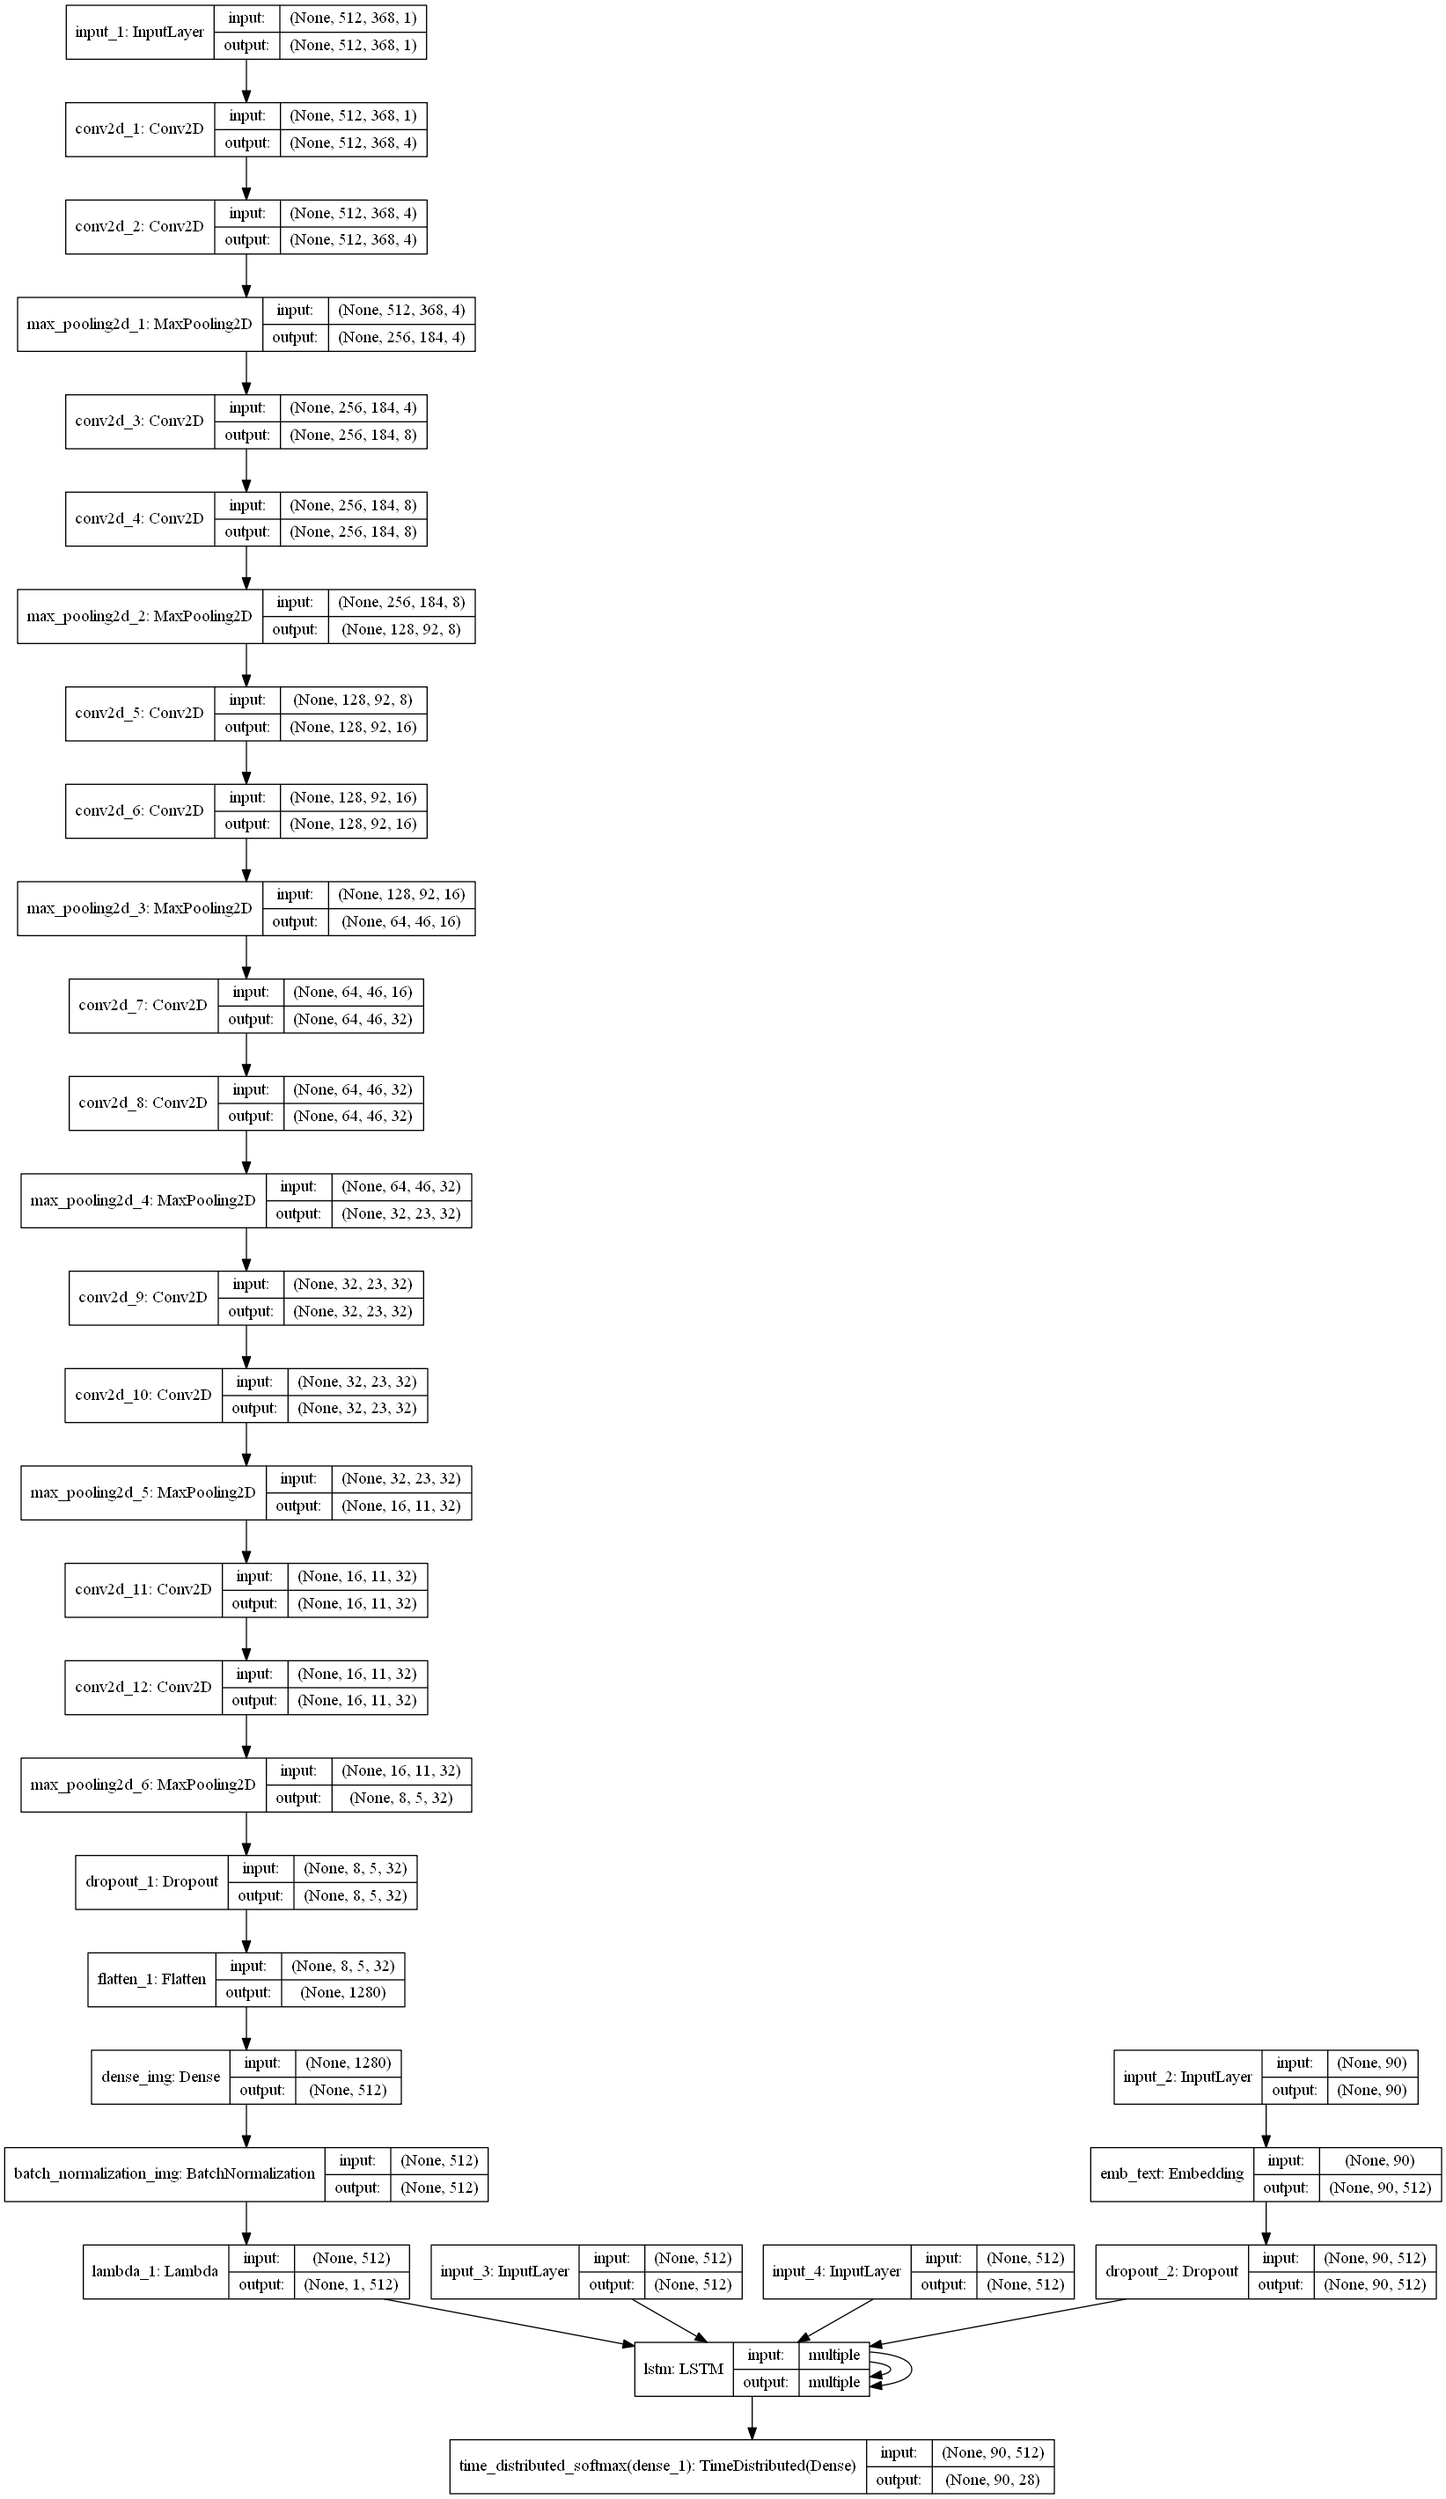
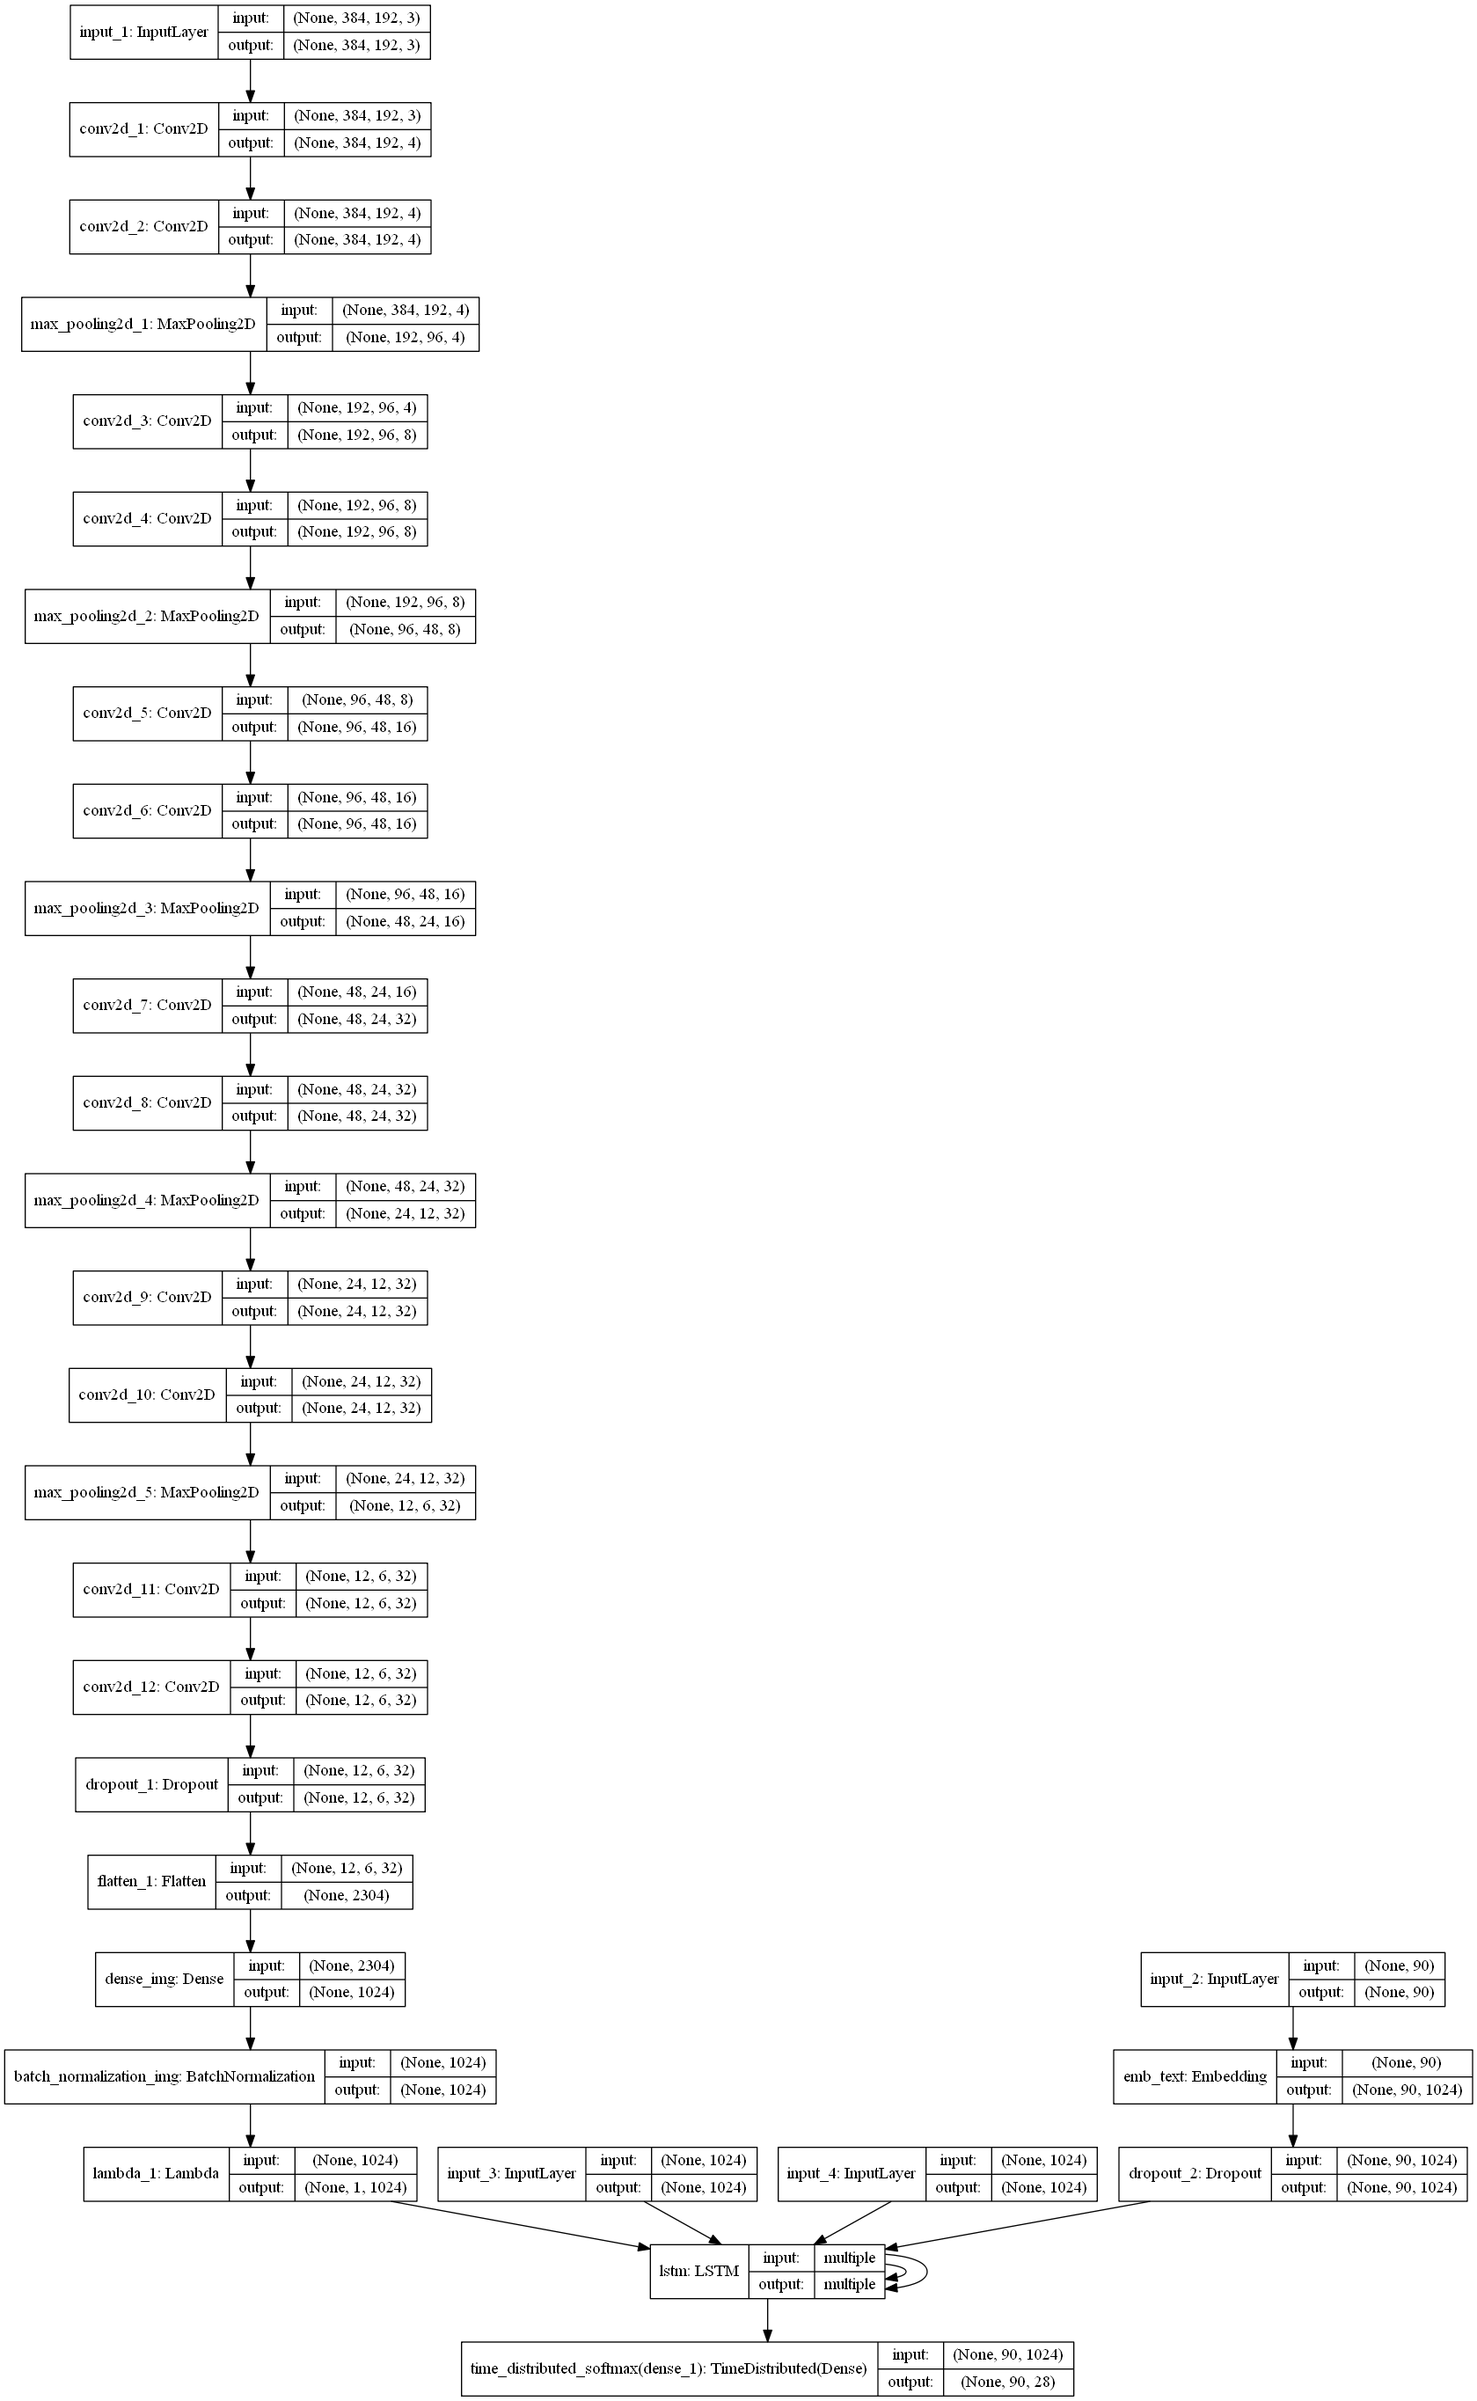
train

Changed region(s): [[0.0, 0.0, 0.9933, 1.0]]

diff --git a/NIC.py b/NIC.py
@@ -22,12 +22,13 @@ from keras.layers import (LSTM, BatchNormalization, Dense, Dropout, Embedding,
                           Input, Lambda, TimeDistributed, Conv2D, MaxPooling2D, Flatten)
 from keras.models import Model
 
-unit_size = 512
+unit_size = 1024
+
 
 def model(vocab_size, max_len, reg):
-    resizeDim = (368, 512)
+    resizeDim = (192, 384)
 
-    inputs1 = Input(shape=(resizeDim[1], resizeDim[0], 1))
+    inputs1 = Input(shape=(resizeDim[1], resizeDim[0], 3))
 
     encoder = Conv2D(4, (3, 3), activation='relu', padding='same')(inputs1)
     encoder = Conv2D(4, (3, 3), activation='relu', padding='same')(encoder)
@@ -51,52 +52,53 @@ def model(vocab_size, max_len, reg):
 
     encoder = Conv2D(32, (3, 3), activation='relu', padding='same')(encoder)
     encoder = Conv2D(32, (3, 3), activation='relu', padding='same')(encoder)
-    encoder = MaxPooling2D((2, 2))(encoder)
+    X_img = MaxPooling2D((2, 2))(encoder)
     # Image embedding
-    #inputs1 = Input(shape=(94208,))
-    X_img = Dropout(0.7)(encoder)
+    # inputs1 = Input(shape=(94208,))
+    X_img = Dropout(0.1)(encoder)
     X_img = Flatten()(X_img)
-    X_img = Dense(unit_size, use_bias = False, 
-                        kernel_regularizer=regularizers.l2(reg),
-                        name = 'dense_img')(X_img)
+    X_img = Dense(unit_size, use_bias=False,
+                  kernel_regularizer=regularizers.l2(reg),
+                  name='dense_img')(X_img)
     X_img = BatchNormalization(name='batch_normalization_img')(X_img)
-    X_img = Lambda(lambda x : K.expand_dims(x, axis=1))(X_img)
+    X_img = Lambda(lambda x: K.expand_dims(x, axis=1))(X_img)
+    Model(inputs1, X_img).summary()
 
     # Text embedding
     inputs2 = Input(shape=(max_len,))
-    X_text = Embedding(vocab_size, unit_size, mask_zero = True, name = 'emb_text')(inputs2)
-    X_text = Dropout(0.5)(X_text)
+    X_text = Embedding(vocab_size, unit_size, mask_zero=True, name='emb_text')(inputs2)
+    X_text = Dropout(0.1)(X_text)
+    Model(inputs2, X_text).summary()
 
     # Initial States
     a0 = Input(shape=(unit_size,))
     c0 = Input(shape=(unit_size,))
 
-    LSTMLayer = LSTM(unit_size, return_sequences = True, return_state = True, dropout=0.5, name = 'lstm')
+    LSTMLayer = LSTM(unit_size, return_sequences=True, return_state=True, dropout=0.1, name='lstm')
 
     # Take image embedding as the first input to LSTM
     _, a, c = LSTMLayer(X_img, initial_state=[a0, c0])
 
     A, _, _ = LSTMLayer(X_text, initial_state=[a, c])
     output = TimeDistributed(Dense(vocab_size, activation='softmax',
-                                     kernel_regularizer = regularizers.l2(reg), 
-                                     bias_regularizer = regularizers.l2(reg)), name = 'time_distributed_softmax')(A)
+                                   kernel_regularizer=regularizers.l2(reg),
+                                   bias_regularizer=regularizers.l2(reg)), name='time_distributed_softmax')(A)
 
     return Model(inputs=[inputs1, inputs2, a0, c0], outputs=output, name='NIC')
 
 
 def greedy_inference_model(vocab_size, max_len):
-    
-    EncoderDense = Dense(unit_size, use_bias=False, name = 'dense_img')
-    EmbeddingLayer = Embedding(vocab_size, unit_size, mask_zero = True, name = 'emb_text')
-    LSTMLayer = LSTM(unit_size, return_state = True, name = 'lstm')
-    SoftmaxLayer = Dense(vocab_size, activation='softmax', name = 'time_distributed_softmax')
+    EncoderDense = Dense(unit_size, use_bias=False, name='dense_img')
+    EmbeddingLayer = Embedding(vocab_size, unit_size, mask_zero=True, name='emb_text')
+    LSTMLayer = LSTM(unit_size, return_state=True, name='lstm')
+    SoftmaxLayer = Dense(vocab_size, activation='softmax', name='time_distributed_softmax')
     BatchNormLayer = BatchNormalization(name='batch_normalization_img')
 
     # Image embedding
     inputs1 = Input(shape=(94208,))
     X_img = EncoderDense(inputs1)
     X_img = BatchNormLayer(X_img)
-    X_img = Lambda(lambda x : K.expand_dims(x, axis=1))(X_img)
+    X_img = Lambda(lambda x: K.expand_dims(x, axis=1))(X_img)
 
     # Text embedding
     inputs2 = Input(shape=(1,))
@@ -112,26 +114,24 @@ def greedy_inference_model(vocab_size, max_len):
 
     outputs = []
     for i in range(max_len):
-        
         a, _, c = LSTMLayer(x, initial_state=[a, c])
         output = SoftmaxLayer(a)
         outputs.append(output)
-        x = Lambda(lambda x : K.expand_dims(K.argmax(x)))(output)
+        x = Lambda(lambda x: K.expand_dims(K.argmax(x)))(output)
         x = EmbeddingLayer(x)
 
     return Model(inputs=[inputs1, inputs2, a0, c0], outputs=outputs, name='NIC_greedy_inference_v2')
 
 
 def image_dense_lstm():
-
-    EncoderDense = Dense(unit_size, use_bias = False, name = 'dense_img')
-    BatchNormLayer = BatchNormalization(name = 'batch_normalization_img')
-    LSTMLayer = LSTM(unit_size, return_state = True, name = 'lstm')
+    EncoderDense = Dense(unit_size, use_bias=False, name='dense_img')
+    BatchNormLayer = BatchNormalization(name='batch_normalization_img')
+    LSTMLayer = LSTM(unit_size, return_state=True, name='lstm')
 
     inputs = Input(shape=(94208,))
     X_img = EncoderDense(inputs)
     X_img = BatchNormLayer(X_img)
-    X_img = Lambda(lambda x : K.expand_dims(x, axis=1))(X_img)
+    X_img = Lambda(lambda x: K.expand_dims(x, axis=1))(X_img)
 
     a0 = Input(shape=(unit_size,))
     c0 = Input(shape=(unit_size,))
@@ -142,9 +142,8 @@ def image_dense_lstm():
 
 
 def text_emb_lstm(vocab_size):
-
-    EmbeddingLayer = Embedding(vocab_size, unit_size, mask_zero = True, name='emb_text')
-    LSTMLayer = LSTM(unit_size, return_state = True, name='lstm')
+    EmbeddingLayer = Embedding(vocab_size, unit_size, mask_zero=True, name='emb_text')
+    LSTMLayer = LSTM(unit_size, return_state=True, name='lstm')
     SoftmaxLayer = Dense(vocab_size, activation='softmax', name='time_distributed_softmax')
 
     a0 = Input(shape=(unit_size,))

diff --git a/train.py b/train.py
@@ -45,7 +45,7 @@ def training(dirs_dict, lr, decay, reg, batch_size, epochs, max_len, initial_epo
 
     # Define checkpoint callback
     file_path = params_dir + '/model-ep{epoch:03d}-loss{loss:.4f}-val_loss{val_loss:.4f}.h5'
-    checkpoint = ModelCheckpoint(file_path, monitor='val_loss', verbose=1, save_weights_only=True, period=1)
+    checkpoint = ModelCheckpoint(file_path, monitor='val_loss', verbose=1, save_weights_only=True, period=5)
     '''tbc = TensorBoardCaption(tokenizer, vocab_size, max_len, log_dir='./logs',
                              feed_pics_dir='./put-your-image-here',
                              model_params_dir=params_dir)'''
@@ -56,12 +56,12 @@ def training(dirs_dict, lr, decay, reg, batch_size, epochs, max_len, initial_epo
     # train
     print("hello world")
     NIC_model.fit_generator(generator_train, steps_per_epoch=2000 // batch_size, epochs=epochs,
-                            #callbacks=[checkpoint, tbc],
+                            callbacks=[checkpoint],
                             validation_data=generator_dev, validation_steps=100, initial_epoch=initial_epoch)
 
 
 if __name__ == "__main__":
-    dict_dir = './datasets/features_dict1.pkl'
+    dict_dir = './datasets/features_dict2.pkl'
     train_dir = './datasets/Flickr8k_text/Flickr_8k.trainImages.txt'
     dev_dir = './datasets/Flickr8k_text/Flickr_8k.devImages.txt'
     token_dir = './datasets/Flickr8k_text/Flickr8k.token.txt'
@@ -71,5 +71,5 @@ if __name__ == "__main__":
     dirs_dict = {'dict_dir': dict_dir, 'train_dir': train_dir, 'dev_dir': dev_dir,
                  'token_dir': token_dir, 'params_dir': params_dir}
 
-    training(dirs_dict, lr=0.001, decay=0., reg=1e-4, batch_size=100, epochs=5 ,
+    training(dirs_dict, lr=0.001, decay=0., reg=1e-4, batch_size=100, epochs=20,
              max_len=90, initial_epoch=0, previous_model=None)

diff --git a/preprocessing/image.py b/preprocessing/image.py
@@ -45,22 +45,19 @@ def extract_features(directory):
             i += 1
             continue
         img_path = directory + '/' + img_file
-        print(img_file, i)
-        resizeDim = (368, 512)
+        resizeDim = (192, 384)
         img = cv2.imread(img_path)
-        img = cv2.cvtColor(img, cv2.COLOR_BGR2GRAY)
         img = cv2.resize(img, resizeDim, interpolation=cv2.INTER_AREA)
-        th, img = cv2.threshold(img, 240, 255, cv2.THRESH_BINARY)
         img = img.astype('float32') / 255
-        x = img.reshape(img.shape + (1,))
+        #x = img.reshape(img.shape + (1,))
 
         img_id.append(os.path.splitext(img_file)[0])
-        img_matrices.append(x)
+        print(img.shape)
+        img_matrices.append(img)
         i += 1
 
     img_matrices = np.array(img_matrices)
 
-    print(img_matrices.shape)
     #img_features = model.predict(img_matrices, verbose=1)
 
     return {'ids': img_id, 'features': img_matrices}
@@ -103,4 +100,4 @@ if __name__ == "__main__":
     image_directory = './datasets/Flickr8k_Dataset'
     features_dict = extract_features(image_directory)
 
-    dump(features_dict, open('./datasets/features_dict1.pkl', 'wb'))
+    dump(features_dict, open('./datasets/features_dict2.pkl', 'wb'),protocol=4)

diff --git a/utils.py b/utils.py
@@ -32,7 +32,6 @@ def batch_generator(batch_size, max_len, tokenizer, dict_dir, dataset_dir, token
 
             X_text_mat = np.array(X_text)
             Y_text_mat = to_categorical(Y_text, vocab_size)
-
-            yield ([img_features[i:i+batch_size, :], X_text_mat, np.zeros([X_text_mat.shape[0], unit_size]), np.zeros([X_text_mat.shape[0], unit_size])], 
+            yield ([img_features[i:i+batch_size, :], X_text_mat, np.zeros([X_text_mat.shape[0], unit_size]), np.zeros([X_text_mat.shape[0], unit_size])],
                     Y_text_mat)
 
